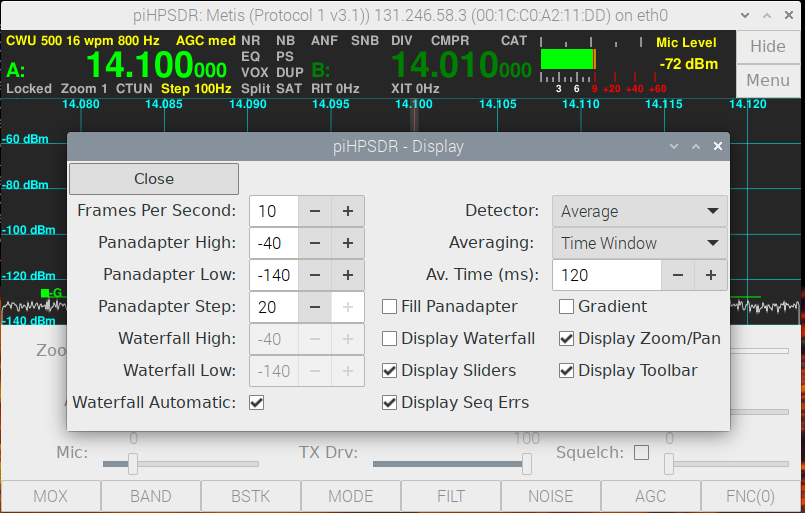
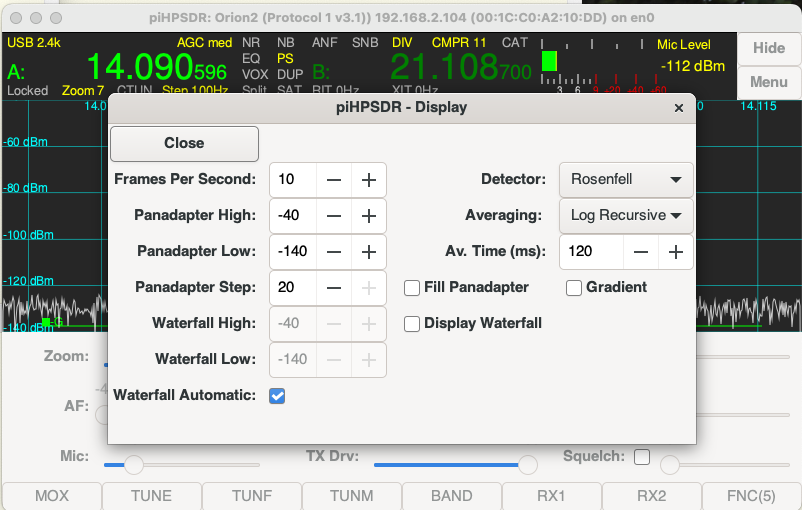
a) included "frames per second" and "filling option" in the TX menu b) moved Display Zoom/Slider/Toolbar/SeqErr boxes from DisplayMenu to ScreenMenu,    since the DisplayMenu should entirely be applicable to the active receiver (only).

diff --git a/release/LatexManual/piHPSDR-Manual.tex b/release/LatexManual/piHPSDR-Manual.tex
@@ -1149,7 +1149,9 @@ the author.
 \section{The \texttt{Screen} Menu}
 
 The \bltt{Screen} menu lets you dynamically change the size of the piHPSDR main
-window, and choose between different VFO bar layouts. The possibility to adjust
+window, and choose between different VFO bar layouts. Furthermore, one
+can select whether the Zoom/Pan, the Sliders, or the Toolbar area are shown or hidden.
+The possibility to adjust
 the screen size has been the most frequent feature request in the last years,
 so I finally decided to implement it. The menu is opened
 via the main menu and the \bltt{Screen} button and is shown in Fig. \ref{fig:ScreenMenu}.
@@ -1223,11 +1225,41 @@ on which the piHPSDR window was opened upon program start is filled.
 If you leave full screen mode, the size of the piHPSDR window is again
 determined by the width and height chosen above.
 
+ \rett{Display Zoom/Pan} This option can be used to show/hide the Zoom and
+ Pan slider below the RX or TX panel. If you do not use Zoom, or control
+ Zoom via an external GPIO or MIDI controller, this can be used to save
+ some vertical space.
+
+ \rett{Display Sliders} This option can be used to show/hide the slider area
+ (that is where the AF gain and the Drive slider resides).
+ Hiding them makes little sense unless you
+ have a GPIO or MIDI controller. For temporarily gaining vertical space,
+ use the \rett{Hide} button at the top right of the main window.
+
+ \rett{Display Toolbar} This option can be used to show/hide the toolbar. This
+ only makes sense of using an external GPIO or MIDI controller. Note that
+ when using the piHPSDR Controller1, the toolbar should remain on display since
+ this then serves as an indication which function is associtated with each of
+ the 8 push buttone immediately below the screen.
+
+\rett{Display Seq Errs} All data packets from the radio to the PC contain
+a sequence number that is increased  for each packet sent. piHPSDR
+checks for each incoming data packet whether the sequence number is
+exactly larger by 1 than the number of the previous packet. If this is not
+the case, this is a \textit{sequence error}. Sequence errors may be caused
+by loosing packets on the way from the radio to the computer, or
+(this is what is usually the reason) packets lost within the computer due
+to the computer being busy with something else (e.g. writing to disk).
+ If the \rett{Display Seq Errs} is checked, a red
+,,Sequence error'' message appears in the panel of the active receiver for two seconds.
+Sequence errors during RX often cause cracks in the RX audio. Unless this
+happens regularly, it is no reason to worry.
+
 %%%%%%%%%%%%%%%%%%%%%%%%%%%%%%%%%%%%%%%%%%%%%%%%%%%%%%%%%%%%%%%%%%%%%%%%%%%%%%%%%%%%%%%%%%%%%%%%%%%%%%%%%%%%
 \section{The \texttt{Display} Menu}
 
 The \bltt{Display} menu is used to customize the overall layout of the piHPSDR
-window and the RX panadapters. Adjustments
+window and the panadapters of the active receiver. Adjustments
 for the TX panadapter must be done in the \bltt{TX} menu. The menu is shown
 in Fig. \ref{fig:DisplayMenu}.
 
@@ -1238,7 +1270,7 @@ in Fig. \ref{fig:DisplayMenu}.
 \label{fig:DisplayMenu}
 \end{figure}
 
-\rett{Frames Per Second:} This adjust how often the RX and TX (!) displays are re-drawn.
+\rett{Frames Per Second:} This adjust how often the RX display is re-drawn.
 10 frames per second (the default) is a good value.
 
 \rett{Panadapter High:} This value is the dBm value of the RX signal strength at the
@@ -1276,45 +1308,14 @@ Log Recursive. For the details, see the WDSP manual.
 constant involved in averaging can be set here.
 
 \rett{Fill Panadapter} This is used to enable/disable the ,,Filling'' option
-for the RX and TX spectrum scopes (see chapter \ref{sec:FillingGradient}).
+for the RX  spectrum scope (see chapter \ref{sec:FillingGradient}).
 
 \rett{Gradient} This is used to enable/disable the ,,Gradient'' option
 (color coding) for the RX spectrum scope (see chapter \ref{sec:FillingGradient}).
- Note color coding is not available for the TX panel.
 
  \rett{Display Waterfall} This option enables/disables the waterfall display
  of the RX panels. Note the spectrum scope is always shown (you cannot have the
  waterfall alone).
-
- \rett{Display Zoom/Pan} This option can be used to show/hide the Zoom and
- Pan slider below the RX or TX panel. If you do not use Zoom, or control
- Zoom via an external GPIO or MIDI controller, this can be used to save
- some vertical space.
-
- \rett{Display Sliders} This option can be used to show/hide the slider area
- (that is where the AF or TX Drive slider resides).
- Hiding them makes little sense unless you
- have a GPIO or MIDI controller. For temporarily gaining vertical space,
- use the \rett{Hide} button at the top right of the main window.
-
- \rett{Display Toolbar} This option can be used to show/hide the toolbar. This
- only makes sense of using an external GPIO or MIDI controller. Note that
- when using the piHPSDR Controller1, the toolbar should remain on display since
- this then serves as an indication which function is associtated with each of
- the 8 push buttone immediately below the screen.
-
-\rett{Display Seq Errs} All data packets from the radio to the PC contain
-a sequence number that is increased  for each packet sent. piHPSDR
-checks for each incoming data packet whether the sequence number is
-exactly larger by 1 than the number of the previous packet. If this is not
-the case, this is a \textit{sequence error}. Sequence errors may be caused
-by loosing packets on the way from the radio to the computer, or
-(this is what is usually the reason) packets lost within the computer due
-to the computer being busy with something else (e.g. writing to disk).
- If the \rett{Display Seq Errs} is checked, a red
-,,Sequence error'' message appears in the RX panel for two seconds.
-Sequence errors during RX often cause cracks in the RX audio. Unless this
-happens regularly, it is no reason to worry.
 
 
 %%%%%%%%%%%%%%%%%%%%%%%%%%%%%%%%%%%%%%%%%%%%%%%%%%%%%%%%%%%%%%%%%%%%%%%%%%%%%%%%%%%%%%%%%%%%%%%%%%%%%%%%%%%%
@@ -2017,11 +2018,18 @@ on the other side. The frequency itself can be chosen with the following menu po
 CTCSS is disabled.
 The frequency list includes 38 standard TIA/EIA-603-D CTCSS frequencies between 67.0 and 250.3 Hz.
 
-\rett{Mac Drive level for DIGU/DIGL} This spin button restricts the range of the drive slider from 0 to the
+\rett{Max Drive for digi} This spin button restricts the range of the drive slider from 0 to the
 chosen value
 for the DIGU and DIGL modes. If the value is 100, this has no effect. The primary use of this menu point is
 PA protection,
 since many digital modes (unlike SSB voice) are constantly transmitting at full power.
+
+\rett{Frames Per Second:} This spin button determines how many frames per second are drawn for the TX
+panadapter. The default value, 10, is a good choice.
+
+\rett{Fill Panadapter} This is used to enable/disable the ,,Filling'' option
+for the TX  spectrum scope (see chapter \ref{sec:FillingGradient}). No ,,gradient''
+option is available for the TX scope.
 
 %%%%%%%%%%%%%%%%%%%%%%%%%%%%%%%%%%%%%%%%%%%%%%%%%%%%%%%%%%%%%%%%%%%%%%%%%%%%%%%%%%%%%%%%%%%%%%%%%%%%%%%%%%%%
 \section{The \texttt{PA} Menu}

diff --git a/src/display_menu.c b/src/display_menu.c
@@ -120,7 +120,7 @@ static void gradient_cb(GtkWidget *widget, gpointer data) {
 static void frames_per_second_value_changed_cb(GtkWidget *widget, gpointer data) {
   active_receiver->fps = gtk_spin_button_get_value_as_int(GTK_SPIN_BUTTON(widget));
   calculate_display_average(active_receiver);
-  set_displaying(active_receiver, 1);
+  set_displaying(active_receiver, active_receiver->displaying);
 }
 
 static void panadapter_high_value_changed_cb(GtkWidget *widget, gpointer data) {
@@ -153,25 +153,6 @@ static void waterfall_automatic_cb(GtkWidget *widget, gpointer data) {
 static void display_waterfall_cb(GtkWidget *widget, gpointer data) {
   active_receiver->display_waterfall = gtk_toggle_button_get_active(GTK_TOGGLE_BUTTON(widget));
   reconfigure_radio();
-}
-
-static void display_zoompan_cb(GtkWidget *widget, gpointer data) {
-  display_zoompan = gtk_toggle_button_get_active(GTK_TOGGLE_BUTTON(widget));
-  reconfigure_radio();
-}
-
-static void display_sliders_cb(GtkWidget *widget, gpointer data) {
-  display_sliders = gtk_toggle_button_get_active(GTK_TOGGLE_BUTTON(widget));
-  reconfigure_radio();
-}
-
-static void display_toolbar_cb(GtkWidget *widget, gpointer data) {
-  display_toolbar = gtk_toggle_button_get_active(GTK_TOGGLE_BUTTON(widget));
-  reconfigure_radio();
-}
-
-static void display_sequence_errors_cb(GtkWidget *widget, gpointer data) {
-  display_sequence_errors = gtk_toggle_button_get_active(GTK_TOGGLE_BUTTON(widget));
 }
 
 void display_menu(GtkWidget *parent) {
@@ -371,32 +352,7 @@ void display_menu(GtkWidget *parent) {
   gtk_widget_show(b_display_waterfall);
   gtk_grid_attach(GTK_GRID(grid), b_display_waterfall, col, row, 1, 1);
   g_signal_connect(b_display_waterfall, "toggled", G_CALLBACK(display_waterfall_cb), (gpointer)NULL);
-  GtkWidget *b_display_zoompan = gtk_check_button_new_with_label("Display Zoom/Pan");
-  gtk_widget_set_name (b_display_zoompan, "boldlabel");
-  gtk_toggle_button_set_active (GTK_TOGGLE_BUTTON (b_display_zoompan), display_zoompan);
-  gtk_widget_show(b_display_zoompan);
-  gtk_grid_attach(GTK_GRID(grid), b_display_zoompan, col + 1, row, 1, 1);
-  g_signal_connect(b_display_zoompan, "toggled", G_CALLBACK(display_zoompan_cb), (gpointer)NULL);
-  row++;
-  GtkWidget *b_display_sliders = gtk_check_button_new_with_label("Display Sliders");
-  gtk_widget_set_name (b_display_sliders, "boldlabel");
-  gtk_toggle_button_set_active (GTK_TOGGLE_BUTTON (b_display_sliders), display_sliders);
-  gtk_widget_show(b_display_sliders);
-  gtk_grid_attach(GTK_GRID(grid), b_display_sliders, col, row, 1, 1);
-  g_signal_connect(b_display_sliders, "toggled", G_CALLBACK(display_sliders_cb), (gpointer)NULL);
-  GtkWidget *b_display_toolbar = gtk_check_button_new_with_label("Display Toolbar");
-  gtk_widget_set_name (b_display_toolbar, "boldlabel");
-  gtk_toggle_button_set_active (GTK_TOGGLE_BUTTON (b_display_toolbar), display_toolbar);
-  gtk_widget_show(b_display_toolbar);
-  gtk_grid_attach(GTK_GRID(grid), b_display_toolbar, col + 1, row, 1, 1);
-  g_signal_connect(b_display_toolbar, "toggled", G_CALLBACK(display_toolbar_cb), (gpointer)NULL);
-  row++;
-  GtkWidget *b_display_sequence_errors = gtk_check_button_new_with_label("Display Seq Errs");
-  gtk_widget_set_name (b_display_sequence_errors, "boldlabel");
-  gtk_toggle_button_set_active (GTK_TOGGLE_BUTTON (b_display_sequence_errors), display_sequence_errors);
-  gtk_widget_show(b_display_sequence_errors);
-  gtk_grid_attach(GTK_GRID(grid), b_display_sequence_errors, col, row, 1, 1);
-  g_signal_connect(b_display_sequence_errors, "toggled", G_CALLBACK(display_sequence_errors_cb), (gpointer)NULL);
+
   gtk_container_add(GTK_CONTAINER(content), grid);
   sub_menu = dialog;
 

diff --git a/src/screen_menu.c b/src/screen_menu.c
@@ -132,6 +132,25 @@ static void full_cb(GtkWidget *widget, gpointer data) {
   schedule_apply();
 }
 
+static void display_zoompan_cb(GtkWidget *widget, gpointer data) {
+  display_zoompan = gtk_toggle_button_get_active(GTK_TOGGLE_BUTTON(widget));
+  schedule_apply();
+}
+
+static void display_sliders_cb(GtkWidget *widget, gpointer data) {
+  display_sliders = gtk_toggle_button_get_active(GTK_TOGGLE_BUTTON(widget));
+  schedule_apply();
+}
+
+static void display_toolbar_cb(GtkWidget *widget, gpointer data) {
+  display_toolbar = gtk_toggle_button_get_active(GTK_TOGGLE_BUTTON(widget));
+  schedule_apply();
+}
+
+static void display_sequence_errors_cb(GtkWidget *widget, gpointer data) {
+  display_sequence_errors = gtk_toggle_button_get_active(GTK_TOGGLE_BUTTON(widget));
+}
+
 void screen_menu(GtkWidget *parent) {
   GtkWidget *label;
   GtkWidget *button;
@@ -212,6 +231,32 @@ void screen_menu(GtkWidget *parent) {
   gtk_toggle_button_set_active(GTK_TOGGLE_BUTTON(full_b), my_full_screen);
   gtk_grid_attach(GTK_GRID(grid), full_b, 2, row, 2, 1);
   g_signal_connect(full_b, "toggled", G_CALLBACK(full_cb), NULL);
+  row++;
+  GtkWidget *b_display_zoompan = gtk_check_button_new_with_label("Display Zoom/Pan");
+  gtk_widget_set_name (b_display_zoompan, "boldlabel");
+  gtk_toggle_button_set_active (GTK_TOGGLE_BUTTON (b_display_zoompan), display_zoompan);
+  gtk_widget_show(b_display_zoompan);
+  gtk_grid_attach(GTK_GRID(grid), b_display_zoompan, 0, row, 1, 1);
+  g_signal_connect(b_display_zoompan, "toggled", G_CALLBACK(display_zoompan_cb), (gpointer)NULL);
+  GtkWidget *b_display_sliders = gtk_check_button_new_with_label("Display Sliders");
+  gtk_widget_set_name (b_display_sliders, "boldlabel");
+  gtk_toggle_button_set_active (GTK_TOGGLE_BUTTON (b_display_sliders), display_sliders);
+  gtk_widget_show(b_display_sliders);
+  gtk_grid_attach(GTK_GRID(grid), b_display_sliders, 1, row, 1, 1);
+  g_signal_connect(b_display_sliders, "toggled", G_CALLBACK(display_sliders_cb), (gpointer)NULL);
+  GtkWidget *b_display_toolbar = gtk_check_button_new_with_label("Display Toolbar");
+  gtk_widget_set_name (b_display_toolbar, "boldlabel");
+  gtk_toggle_button_set_active (GTK_TOGGLE_BUTTON (b_display_toolbar), display_toolbar);
+  gtk_widget_show(b_display_toolbar);
+  gtk_grid_attach(GTK_GRID(grid), b_display_toolbar, 2, row, 1, 1);
+  g_signal_connect(b_display_toolbar, "toggled", G_CALLBACK(display_toolbar_cb), (gpointer)NULL);
+  GtkWidget *b_display_sequence_errors = gtk_check_button_new_with_label("Display Seq Errs");
+  gtk_widget_set_name (b_display_sequence_errors, "boldlabel");
+  gtk_toggle_button_set_active (GTK_TOGGLE_BUTTON (b_display_sequence_errors), display_sequence_errors);
+  gtk_widget_show(b_display_sequence_errors);
+  gtk_grid_attach(GTK_GRID(grid), b_display_sequence_errors, 3, row, 1, 1);
+  g_signal_connect(b_display_sequence_errors, "toggled", G_CALLBACK(display_sequence_errors_cb), (gpointer)NULL);
+
   gtk_container_add(GTK_CONTAINER(content), grid);
   sub_menu = dialog;
   gtk_widget_show_all(dialog);

diff --git a/src/tx_menu.c b/src/tx_menu.c
@@ -52,6 +52,15 @@ static gboolean close_cb () {
   return TRUE;
 }
 
+static void frames_per_second_value_changed_cb(GtkWidget *widget, gpointer data) {
+  transmitter->fps = gtk_spin_button_get_value_as_int(GTK_SPIN_BUTTON(widget));
+  tx_set_displaying(transmitter, transmitter->displaying);
+}
+
+static void filled_cb(GtkWidget *widget, gpointer data) {
+  transmitter->display_filled = gtk_toggle_button_get_active(GTK_TOGGLE_BUTTON(widget));
+}
+
 static void comp_enable_cb(GtkWidget *widget, gpointer data) {
   transmitter_set_compressor(transmitter, gtk_toggle_button_get_active (GTK_TOGGLE_BUTTON (widget)));
   mode_settings[get_tx_mode()].compressor = transmitter->compressor;
@@ -482,7 +491,7 @@ void tx_menu(GtkWidget *parent) {
   gtk_grid_attach(GTK_GRID(grid), am_carrier_level, col, row, 1, 1);
   g_signal_connect(am_carrier_level, "value_changed", G_CALLBACK(am_carrier_level_value_changed_cb), NULL);
   col++;
-  label = gtk_label_new("Max Drive level for DIGU/DIGL:");
+  label = gtk_label_new("Max Drive for digi:");
   gtk_widget_set_name(label, "boldlabel");
   gtk_widget_set_halign(label, GTK_ALIGN_END);
   gtk_widget_show(label);
@@ -494,6 +503,24 @@ void tx_menu(GtkWidget *parent) {
   gtk_widget_show(digi_drive_b);
   gtk_grid_attach(GTK_GRID(grid), digi_drive_b, col, row, 1, 1);
   g_signal_connect(digi_drive_b, "value-changed", G_CALLBACK(digi_drive_cb), NULL);
+  row++;
+  col = 0;
+  label = gtk_label_new("Frames Per Second:");
+  gtk_widget_set_name(label, "boldlabel");
+  gtk_widget_set_halign(label, GTK_ALIGN_END);
+  gtk_grid_attach(GTK_GRID(grid), label, col, row, 1, 1);
+  col++;
+  GtkWidget *fps_spin = gtk_spin_button_new_with_range(1.0, 100.0, 1.0);
+  gtk_spin_button_set_value(GTK_SPIN_BUTTON(fps_spin), (double)transmitter->fps);
+  gtk_grid_attach(GTK_GRID(grid), fps_spin, col, row, 1, 1);
+  g_signal_connect(fps_spin, "value-changed", G_CALLBACK(frames_per_second_value_changed_cb), NULL);
+  col++;
+  GtkWidget *filled_b = gtk_check_button_new_with_label("Fill Panadapter");
+  gtk_widget_set_name(filled_b, "boldlabel");
+  gtk_toggle_button_set_active (GTK_TOGGLE_BUTTON (filled_b), transmitter->display_filled);
+  gtk_grid_attach(GTK_GRID(grid), filled_b, col, row, 1, 1);
+  g_signal_connect(filled_b, "toggled", G_CALLBACK(filled_cb), NULL);
+
   gtk_container_add(GTK_CONTAINER(content), grid);
   sub_menu = dialog;
   gtk_widget_show_all(dialog);

diff --git a/src/transmitter.c b/src/transmitter.c
@@ -663,8 +663,8 @@ TRANSMITTER *create_transmitter(int id, int width, int height) {
   TRANSMITTER *tx = g_new(TRANSMITTER, 1);
   tx->id = id;
   tx->dac = 0;
-  tx->fps = 10;             // TODO: UI for changing this value
-  tx->display_filled = 0;   // TODO: UI for changing this value
+  tx->fps = 10;
+  tx->display_filled = 0;
   tx->dsp_size = 2048;
   tx->low_latency = 0;
   tx->fft_size = 2048;
@@ -725,7 +725,7 @@ TRANSMITTER *create_transmitter(int id, int width, int height) {
   tx->displaying = 0;
   tx->alex_antenna = 0; // default: ANT1
   t_print("create_transmitter: id=%d buffer_size=%d mic_sample_rate=%d mic_dsp_rate=%d iq_output_rate=%d output_samples=%d width=%d height=%d\n",
-          tx->id, tx->buffer_size, tx->mic_sample_rate, tx->mic_dsp_rate, tx->iq_output_rate, tx->output_samples, 
+          tx->id, tx->buffer_size, tx->mic_sample_rate, tx->mic_dsp_rate, tx->iq_output_rate, tx->output_samples,
           tx->width, tx->height);
   tx->filter_low = tx_filter_low;
   tx->filter_high = tx_filter_high;

diff --git a/src/startup.c b/src/startup.c
@@ -99,11 +99,11 @@ void startup(const char *path) {
     close (rc);
     unlink(filename);
   }
-    
+
   //
   // Look for files hpsdr.png, protocols.props, and pihpsdr.sh
   //
-  
+
   rc = stat("hpsdr.png", &statbuf);
 
   if (rc == 0 && (S_ISREG(statbuf.st_mode) || S_ISLNK(statbuf.st_mode))) { found = 1; }
@@ -172,7 +172,7 @@ void startup(const char *path) {
   //
   // At this point, the new working directory exists and the name
   // is in filename.
-  // 
+  //
   if (chdir(workdir) != 0) {
     // unrecoverable error, could not chdir to target
     t_print("%s: Could not chdir to working dir %s\n", __FUNCTION__, workdir);

diff --git a/src/old_protocol.c b/src/old_protocol.c
@@ -535,7 +535,7 @@ static void open_udp_socket() {
   }
 
   optlen = sizeof(optval);
-  optval = IPTOS_PREC_CRITIC_ECP | IPTOS_LOWDELAY;    
+  optval = IPTOS_PREC_CRITIC_ECP | IPTOS_LOWDELAY;
 
   if (setsockopt(tmp, IPPROTO_IP, IP_TOS, &optval, optlen) < 0) {
     t_perror("data_socket: IP_TOS");
